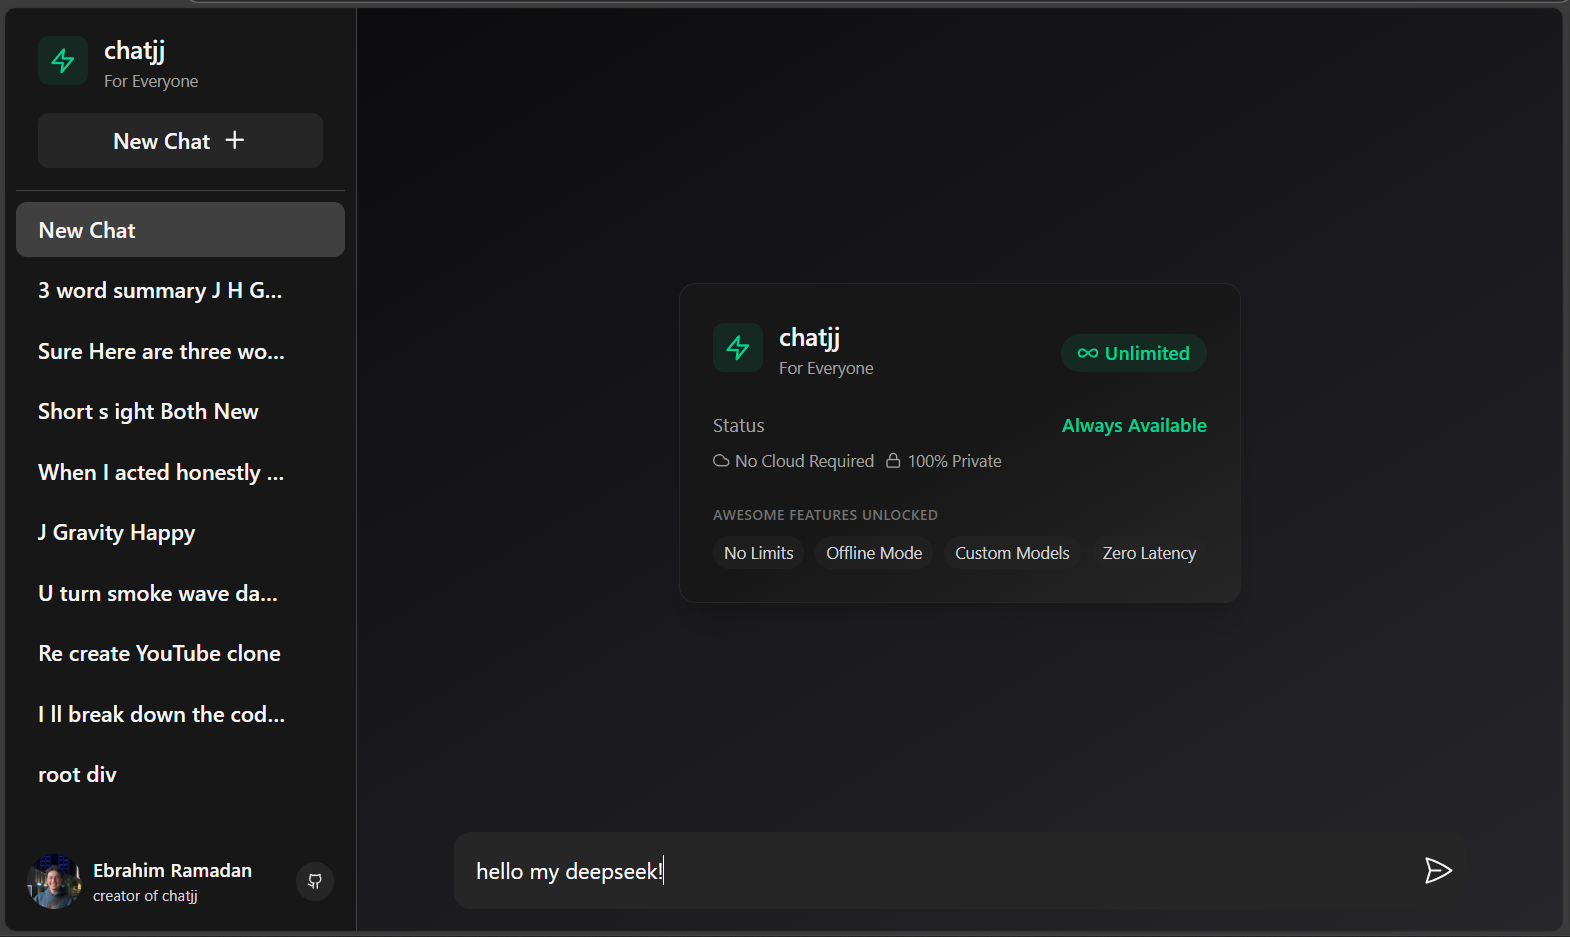
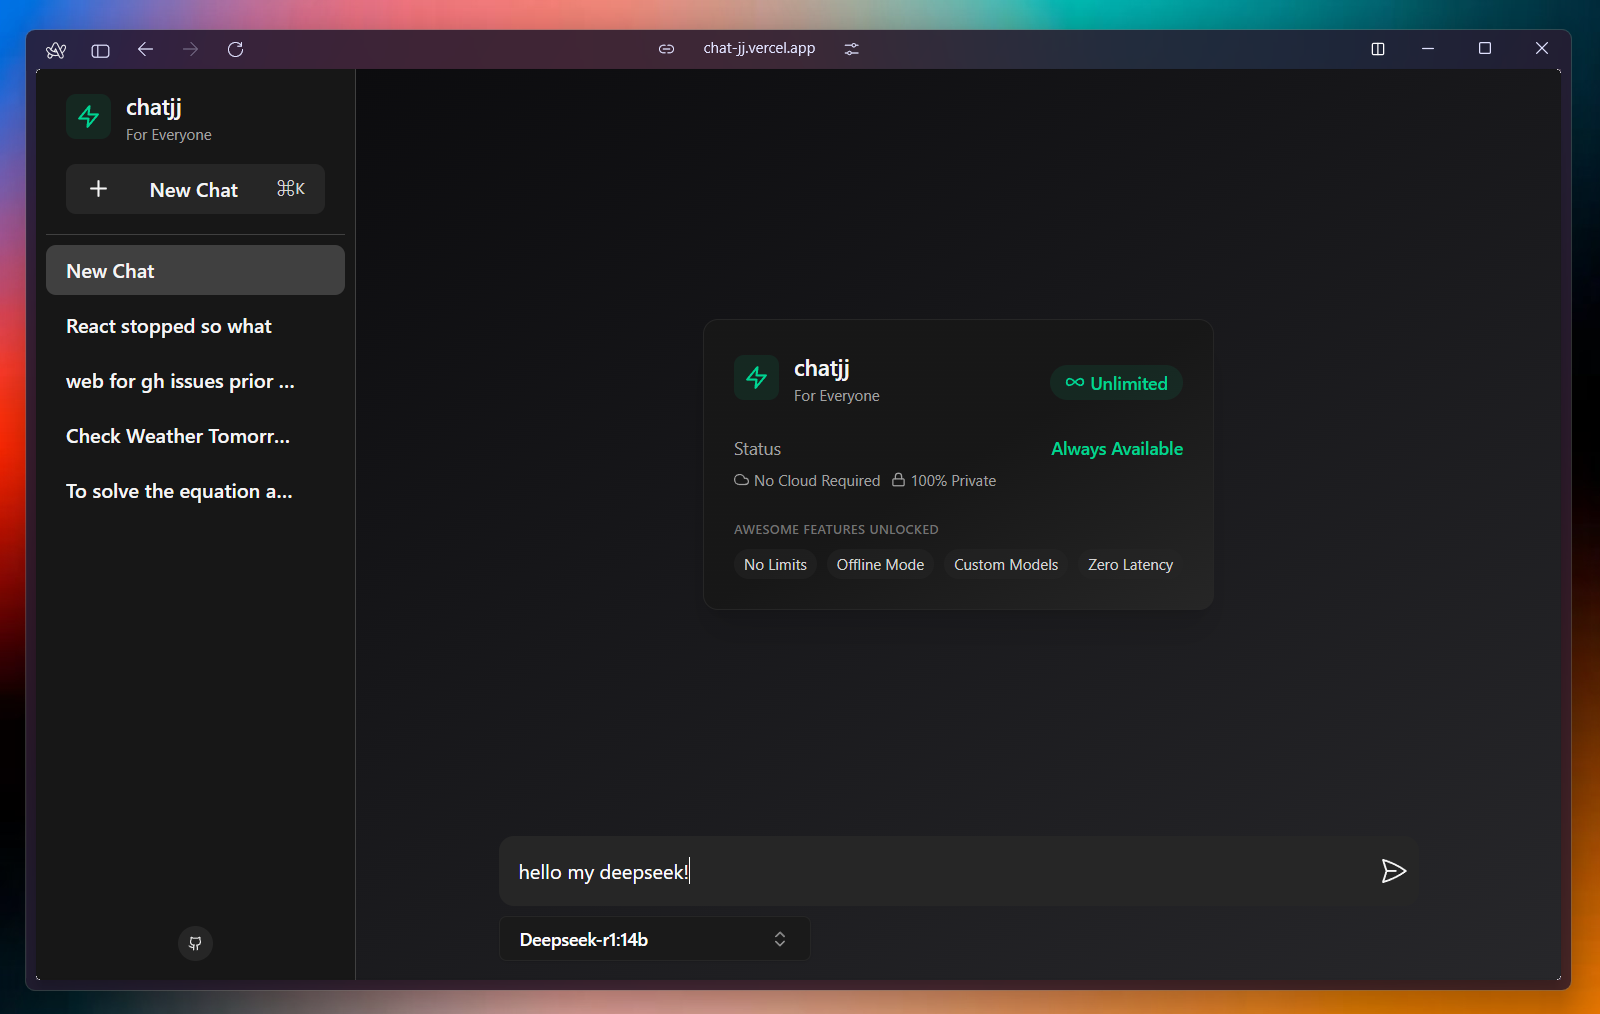
ui changes

diff --git a/src/components/MessageList.tsx b/src/components/MessageList.tsx
@@ -20,11 +20,11 @@ interface MessageListProps {
 /**
  * Splits text by two or more newlines and wraps each paragraph in a <p> tag.
  */
-const renderMarkdown = (text: string) => {
+const renderMarkdown = (text: string, role: string) => {
   // Split by two or more newlines
   const paragraphs = text.split(/\n{2,}/g);
   return paragraphs.map((para, index) => (
-    <p key={index}>
+    <p key={index} className={`${role == "assistant" && "renderedMDAssistant"}`}>
       {renderBold(para)}
     </p>
   ));
@@ -62,7 +62,7 @@ function MessageList({ messages }: MessageListProps) {
   };
 
   // Formats the message content for display.
-  function formatMessage(content: string) {
+  function formatMessage(content: string, role: string) {
     const finalParts: JSX.Element[] = [];
     const codeBlockRegex = /```(\w+)?\n([\s\S]*?)```/g;
     let lastIndex = 0;
@@ -75,7 +75,7 @@ function MessageList({ messages }: MessageListProps) {
           const precedingText = content.slice(lastIndex, offset);
           finalParts.push(
             <span key={`text-${lastIndex}`}>
-              {renderMarkdown(precedingText)}
+              {renderMarkdown(precedingText, role)}
             </span>
           );
         }
@@ -148,7 +148,7 @@ function MessageList({ messages }: MessageListProps) {
               key={`think-${index}`}
               className="bg-neutral-900 opacity-70 p-2 rounded-md mt-0 mb-2"
             >
-              {renderMarkdown(thinkContent)}
+              {renderMarkdown(thinkContent, role)}
             </div>
           );
           // finalParts.push(
@@ -160,7 +160,7 @@ function MessageList({ messages }: MessageListProps) {
           // Render the rest of the text as markdown.
           finalParts.push(
             <span key={`text-${lastIndex + index}`}>
-              {renderMarkdown(part)}
+              {renderMarkdown(part, role)}
             </span>
           );
         }
@@ -200,11 +200,11 @@ function MessageList({ messages }: MessageListProps) {
             }`}
           >
             <div
-              className={`p-2 rounded-lg max-w-[80%] ${
-                message.role === "user" ? "bg-neutral-900" : ""
+              className={` rounded-lg max-w-[80%] ${
+                message.role === "user" ? "bg-neutral-900 p-2" : ""
               }`}
             >
-              {formatMessage(message.content)}
+              {formatMessage(message.content, message.role)}
             </div>
 
             {/* Copy whole response button */}

diff --git a/src/components/ui/MyCard.tsx b/src/components/ui/MyCard.tsx
@@ -1,13 +1,11 @@
-import { GithubIcon } from "lucide-react"
-
 
 const LittleFounder = () => {
   return (
-    <a className="flex group items-center justify-center py-4 cursor-pointer bg-neutral-900" href="https://github.com/Ebrahim-Ramadan/vite-pwa-chatjj" target="_blank">
-    <div className="flex flex-col items-end bg-neutral-800 rounded-full p-2 text-neutral-200 group-hover:bg-neutral-700">
-        <GithubIcon className="w-3 h-3 text-neutral-200" strokeWidth={2} />
-      </div>
-     
+    <a href="https://github.com/Ebrahim-Ramadan/vite-pwa-chatjj" className="w-full flex p-4 py-6 text-neutral-400 hover:text-neutral-100 transition-all duration-300" target="_blank">
+      <svg xmlns="http://www.w3.org/2000/svg" width="18" height="18" viewBox="0 0 24 24" fill="none">
+        <path d="M12 1.95068C17.525 1.95068 22 6.42568 22 11.9507C21.9995 14.0459 21.3419 16.0883 20.1198 17.7902C18.8977 19.4922 17.1727 20.768 15.1875 21.4382C14.6875 21.5382 14.5 21.2257 14.5 20.9632C14.5 20.6257 14.5125 19.5507 14.5125 18.2132C14.5125 17.2757 14.2 16.6757 13.8375 16.3632C16.0625 16.1132 18.4 15.2632 18.4 11.4257C18.4 10.3257 18.0125 9.43818 17.375 8.73818C17.475 8.48818 17.825 7.46318 17.275 6.08818C17.275 6.08818 16.4375 5.81318 14.525 7.11318C13.725 6.88818 12.875 6.77568 12.025 6.77568C11.175 6.77568 10.325 6.88818 9.525 7.11318C7.6125 5.82568 6.775 6.08818 6.775 6.08818C6.225 7.46318 6.575 8.48818 6.675 8.73818C6.0375 9.43818 5.65 10.3382 5.65 11.4257C5.65 15.2507 7.975 16.1132 10.2 16.3632C9.9125 16.6132 9.65 17.0507 9.5625 17.7007C8.9875 17.9632 7.55 18.3882 6.65 16.8757C6.4625 16.5757 5.9 15.8382 5.1125 15.8507C4.275 15.8632 4.775 16.3257 5.125 16.5132C5.55 16.7507 6.0375 17.6382 6.15 17.9257C6.35 18.4882 7 19.5632 9.5125 19.1007C9.5125 19.9382 9.525 20.7257 9.525 20.9632C9.525 21.2257 9.3375 21.5257 8.8375 21.4382C6.8458 20.7752 5.11342 19.502 3.88611 17.799C2.65881 16.096 1.9989 14.0498 2 11.9507C2 6.42568 6.475 1.95068 12 1.95068Z" fill="currentColor"></path>
+      </svg>
+
     </a>
   )
 }

diff --git a/src/index.css b/src/index.css
@@ -19,9 +19,8 @@ button, a {
   cursor: pointer;
 }
 
-select.PickAModel {
-  min-block-size: 1.5lh;
-  field-sizing: content;
+span >*.renderedMDAssistant{
+  padding-top: 4px;
 }
 
 :root {
